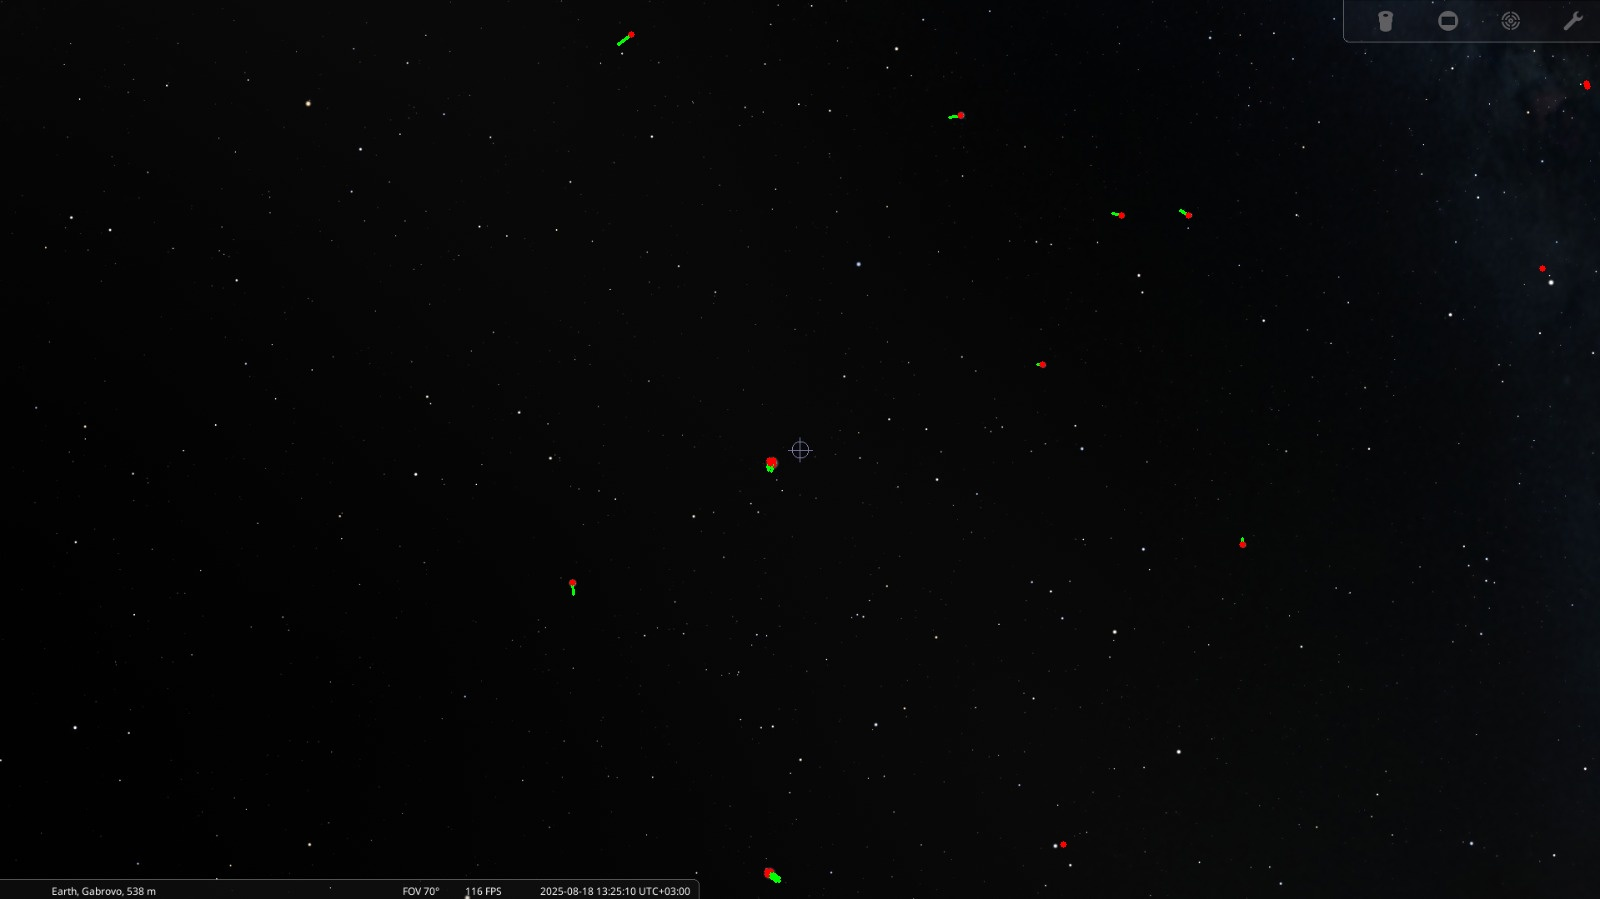
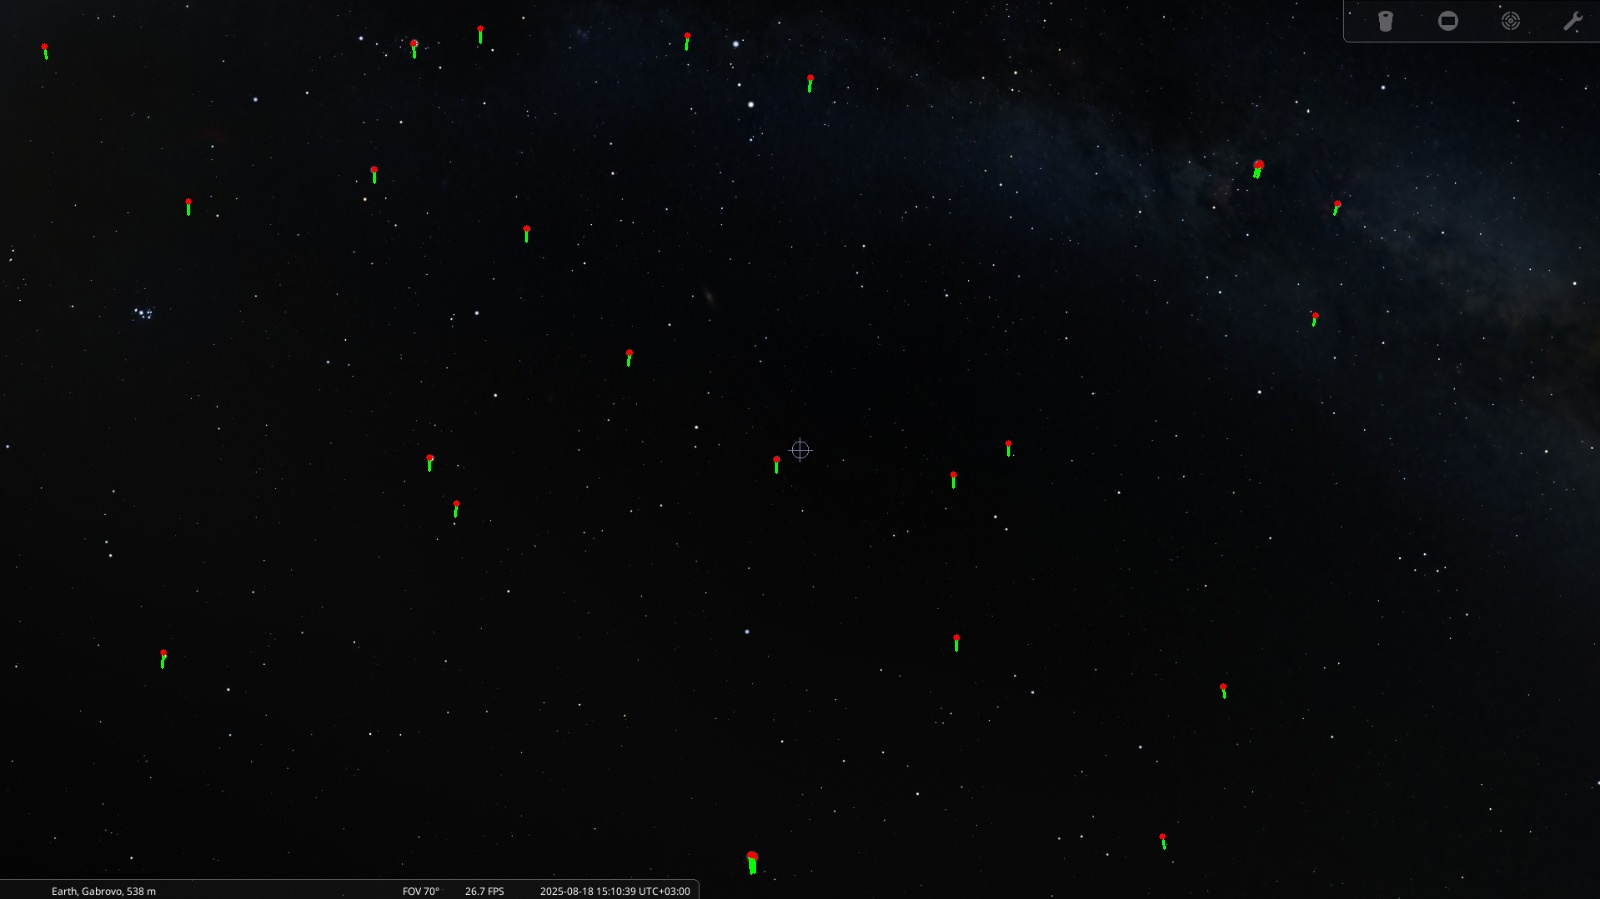
new version (fixed)

diff --git a/src/TRACKING/NEW_track2.py b/src/TRACKING/NEW_track2.py
@@ -147,8 +147,8 @@ def draw_center_to_star_vectors(img, points, cx, cy, color=(255, 0, 0)):
 
 
 if __name__ == "__main__":
-    img1= cv.imread(r"src/test/test_images/Tracking_test/0RA_0.5DEC.FOV(70).png")
-    img2= cv.imread(r"src\test\test_images\Tracking_test\0RA_0DEC_FOV(70).png")
+    img1= cv.imread("src/test/test_images/Tracking_test/0RA_31DEC_FOV(70).png")
+    img2= cv.imread("src/test/test_images/Tracking_test/0RA_30DEC_FOV(70).png")
 
     cx,cy,fx,fy=get_intrinsics(img1)
     img_processed1=processing_image(img1)
@@ -215,16 +215,12 @@ if __name__ == "__main__":
     cv.imwrite("output_center_vectors.jpg", img_center_vecs)
 
     img_center_vecs2=draw_center_to_star_vectors(img1, good_old, cx, cy,color=(0, 0, 255))
-    
     cv.imshow("Center-to-Star Vectors", img_center_vecs2)
     cv.waitKey(0)
     cv.destroyAllWindows()
 
     cv.imwrite("output_center_vectors.jpg", img_center_vecs2)
-    displacement= good_new - good_old
-    deg_pixel=fov_deg/h
-    real_displacement=displacement*deg_pixel
-    print(real_displacement)
+    
     
     displacement = good_new - good_old        # shape (N,2), each row is (dx, dy)
     deg_pixel = fov_deg / h
@@ -241,7 +237,9 @@ if __name__ == "__main__":
     mean_disp = np.mean(magnitudes)
     print(f"\nMean displacement = {mean_disp}")
 
-  
+    
+
+
 
     '''
     #compute the unit vectors
